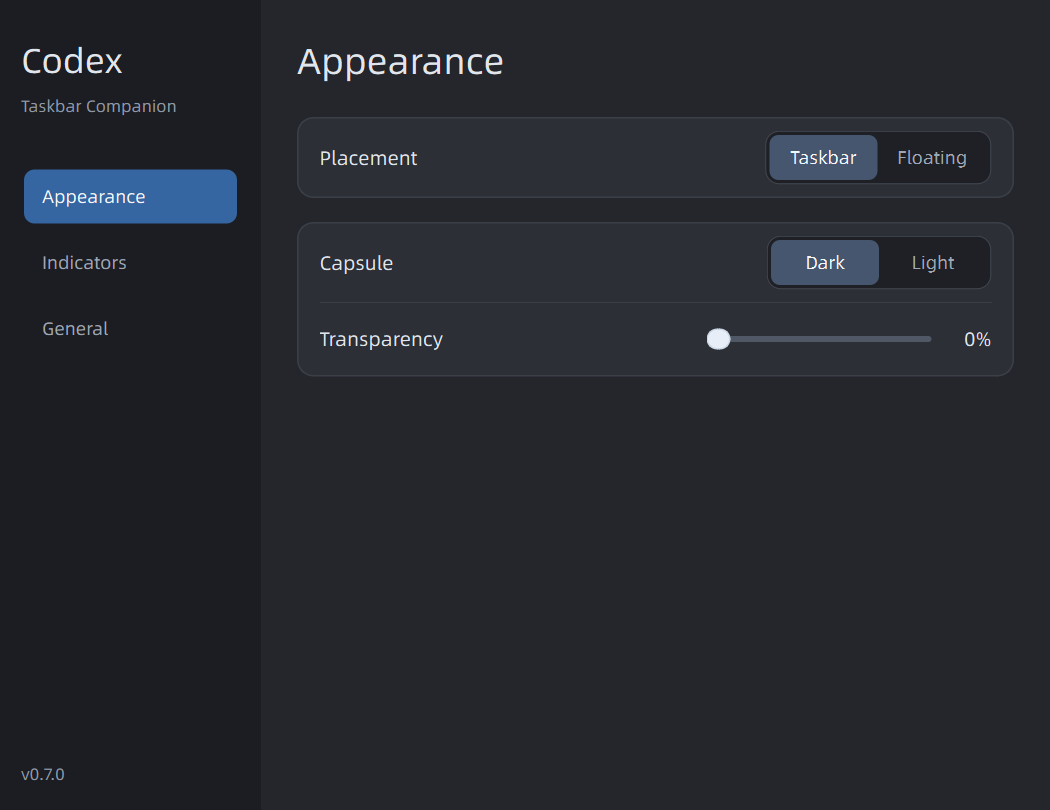
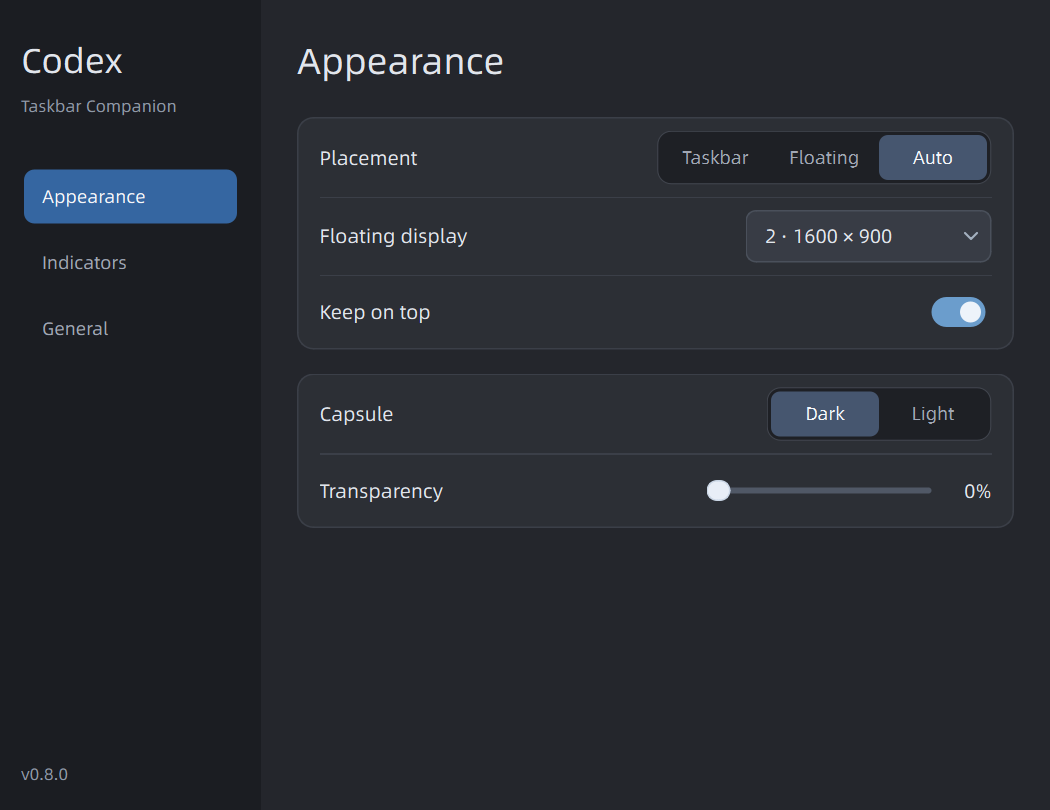
chore(release): prepare 0.8.0 adaptive placement
Document automatic placement and floating-display selection, preserve prior defaults, and include the earlier selection fixes. Device-validation limits remain explicit.

Validation: 246 tests, four offscreen journeys and four-language compact renders; installed and release gates follow before publication.

diff --git a/codex_taskbar/build_info.py b/codex_taskbar/build_info.py
@@ -1,4 +1,4 @@
-VERSION = "0.7.0"
+VERSION = "0.8.0"
 APP_NAME = "Codex Taskbar Companion"
 # Set to the public owner/repository before building a published installer.
 RELEASE_REPOSITORY = "dicksick22046/codex-taskbar-companion"

diff --git a/docs/plans/product-quality.md b/docs/plans/product-quality.md
@@ -23,6 +23,17 @@
 
 ## 3. Product review and next decisions
 
+### Windows placement compatibility — current delivery
+
+| Item | Status | Evidence |
+| --- | --- | --- |
+| Auto taskbar/floating fallback and recovery | Implemented | Stable-availability policy, fullscreen and interaction-lock tests |
+| Floating display choice and disconnect/reconnect | Implemented | Legacy preferences, primary following, pinned/negative-origin screen fixtures and retained positions |
+| Screen-bound menus, panels and utility windows | Implemented | Resolved-display bounds tests |
+| Compact multilingual settings and real control flow | Verified in controlled environment | Four-language renders and offscreen window-level input |
+| Primary-display installed build, CI and release | Pending | One coherent release including earlier selection fixes |
+| Mixed-DPI multi-monitor hardware / Windows 10 / ARM64 | Not verified | Requires actual target devices; do not infer support from fixtures |
+
 Evaluate whether each addition reduces missed work, prevents mistakes or improves recovery enough to justify its permanent complexity. Record a disposition and evidence for each candidate before implementation.
 
 Current review selects two small additions: clarify remaining/consumed quota in tooltips without widening the strip, and provide user-initiated, allowlisted support diagnostics for recurring visibility/startup reports. Neither needs a new collector or server. Keep the ring animation, stable rotation and shared Provider. Other-platform claims and broad approval detection remain gated on actual evidence; a mobile backend is not a prerequisite for a useful desktop companion.

diff --git a/README.md b/README.md
@@ -22,6 +22,8 @@ The strip sits on the left of the primary taskbar. If there is not enough space,
 
 Choose **Placement → Floating** in Settings to move the capsule away from the taskbar. Drag it to a convenient position; that position is remembered. **Keep on top** is optional, and panels open above or below it to fit the screen. Switch back to **Taskbar** at any time.
 
+**Auto** prefers the primary taskbar and uses a floating capsule when there is not enough room. It waits for stable availability before switching back and avoids automatic overlays over fullscreen foreground apps. **Floating display** can follow primary or pin a display; disconnecting it temporarily uses primary, and reconnecting restores the saved relative position. This does not add secondary-taskbar embedding or claim validation on other Windows versions.
+
 ![Floating capsule](docs/images/floating.png)
 
 *Floating mode with sample data; the panel and capsule use the same controls as taskbar mode.*

diff --git a/docs/i18n/README.zh-CN.md b/docs/i18n/README.zh-CN.md
@@ -22,6 +22,8 @@
 
 在设置中选择 **显示位置 → 悬浮窗**，就能把胶囊拖到合适的位置，重启后保留位置。可关闭 **保持置顶**；面板根据屏幕空间向上或向下展开。随时可以切回 **任务栏**。
 
+**自动**模式优先使用主任务栏，空间不足时转为悬浮窗，空间稳定恢复后返回，并避让前台全屏应用。**悬浮显示器**可跟随主屏或固定一块屏幕；断开时临时回主屏，重连后恢复原相对位置。目前没有新增副任务栏嵌入，也不因此宣称已验证其他 Windows 版本。
+
 ![悬浮胶囊](../images/floating.png)
 
 *图中使用演示数据；悬浮窗和任务栏共用同一套组件与面板。*

diff --git a/CHANGELOG.md b/CHANGELOG.md
@@ -4,6 +4,12 @@
 
 ## Unreleased
 
+## 0.8.0
+
+- Add Auto placement: prefer the primary taskbar, fall back to floating when space is unavailable, and return after availability stabilizes.
+- Add floating-display selection, primary-display following and disconnected-display recovery without losing the saved relative position.
+- Keep panels, menus and new utility windows on the resolved display; avoid automatic overlays over fullscreen foreground apps.
+
 - Balance strip selection padding around rings and text, keep feedback inside clickable targets, and emphasize status pills without a second enclosing box.
 
 ## 0.7.0

diff --git a/docs/i18n/CHANGELOG.zh-CN.md b/docs/i18n/CHANGELOG.zh-CN.md
@@ -4,6 +4,12 @@
 
 ## Unreleased
 
+## 0.8.0
+
+- 新增自动摆放：优先主任务栏，空间不足时转为悬浮窗，空间稳定恢复后自动返回。
+- 新增悬浮显示器选择，支持跟随主屏、断开后临时回退及重连恢复，保留相对位置。
+- 面板、菜单和新打开的工具窗口跟随目标显示器，自动模式避让前台全屏应用。
+
 - 配平底栏选中态在圆环和文字两侧的留白，使反馈背景与点击区域一致；状态计数直接加强自身底色，不再叠加外框。
 
 ## 0.7.0
